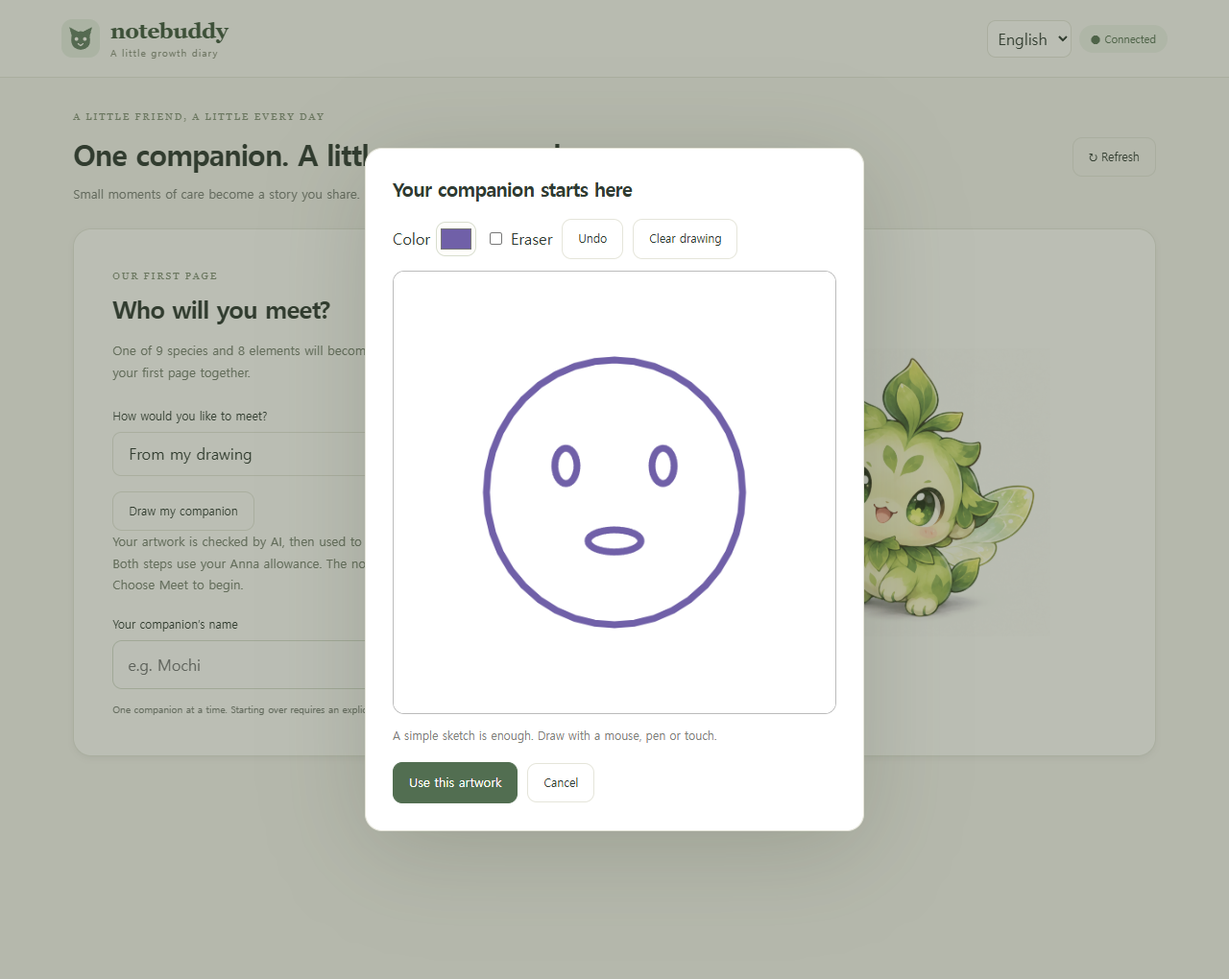
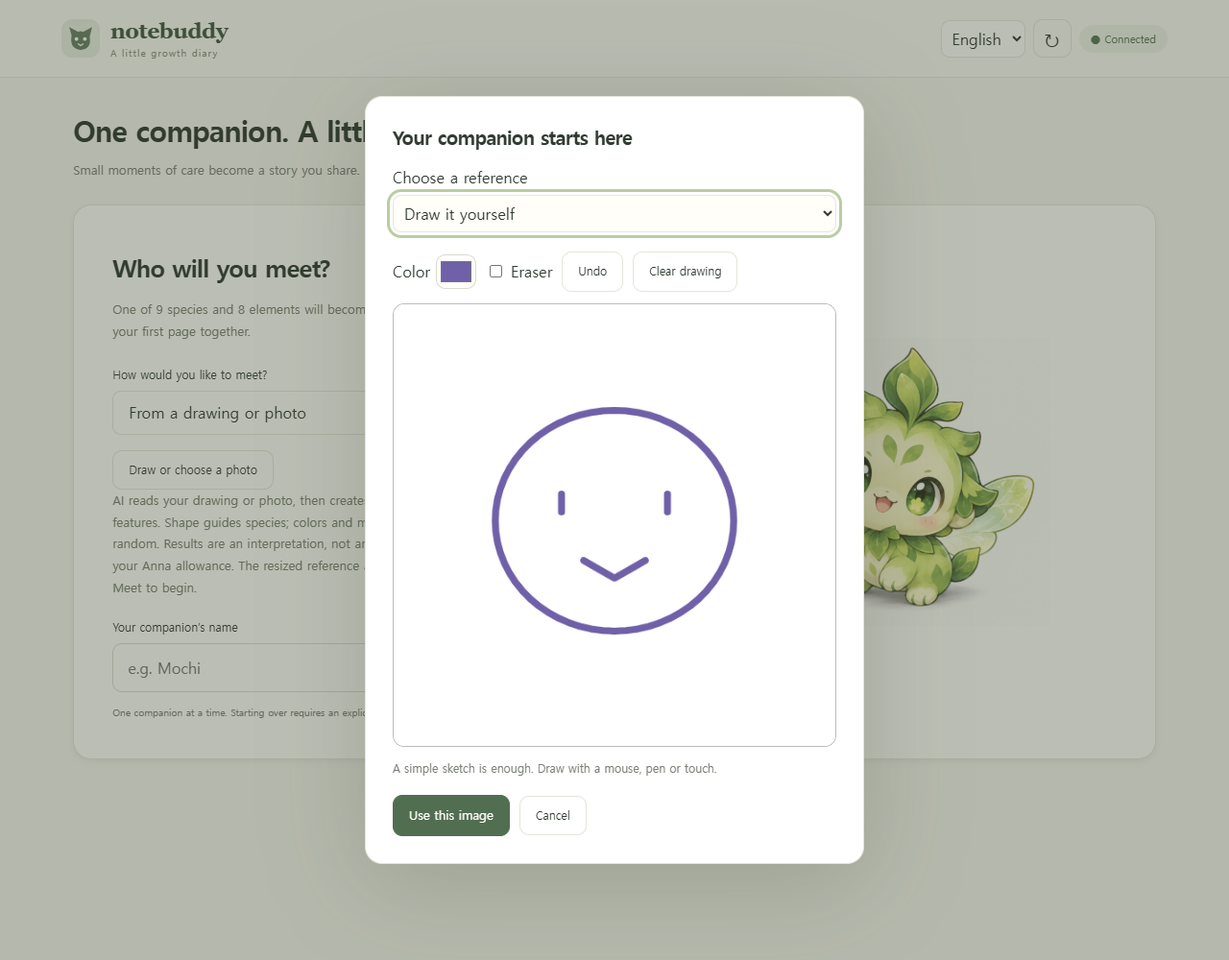
docs: refresh Anna listing and resubmit version 0.8.1

diff --git a/anna/scripts/store_fixture.py b/anna/scripts/store_fixture.py
@@ -1,0 +1,33 @@
+"""Produce disposable, real-engine views for store screenshots; no Anna account."""
+import json
+from pathlib import Path
+import subprocess
+import sys
+
+root = Path(__file__).resolve().parents[1]
+sys.path.insert(0, str(root / 'executas' / 'notebuddy'))
+from localization import localize
+
+
+def run(command, state=None):
+    payload = {'command': command, 'state': state, 'name': 'Mori'}
+    process = subprocess.run(
+        [sys.executable, '-B', '-X', 'utf8', str(root / 'executas/notebuddy/game_worker.py')],
+        input=json.dumps(payload), text=True, encoding='utf-8', capture_output=True, check=True)
+    value = json.loads(process.stdout)
+    if not value['result']['ok']:
+        raise RuntimeError(value['result'].get('code', 'Engine action failed'))
+    response = localize({**value['result'], **value['view'], 'request_id_prefix': 'nb2:0:'}, command)
+    return value['state'], response
+
+
+for attempt in range(40):
+    state, initial = run('start')
+    state, discovery = run('walk_begin', state)
+    if any(entry['discovered'] for entry in discovery['status']['dungeons']['entries']):
+        if discovery['status'].get('encounter'):
+            state, discovery = run('flee', state)
+        print(json.dumps({'initial': initial, 'discovery': discovery}, ensure_ascii=False))
+        break
+else:
+    raise RuntimeError('No discovery in disposable screenshot games; rerun explicitly')

diff --git a/anna/REVIEW_081.md b/anna/REVIEW_081.md
@@ -1,0 +1,37 @@
+# Notebuddy 0.8.1 — review guide
+
+Submitted candidate: **app 0.8.1**, immutable version **1370**, bundle **1271**, game tool **0.6.0 / version 746**. On **2026-10-14 KST**, the official CLI resubmitted review and a fresh server read confirmed **pending_review**, replacing the earlier **0.3.4** candidate. The current listing, privacy link and five screenshots were synchronized and verified. Approval and publication are pending.
+
+This guide is repository documentation. Anna's submission command has no separate reviewer-notes field; the updated app introduction and screenshots are the materials synchronized to the listing.
+
+## What the app does
+
+Notebuddy is a personal virtual companion inside Anna. Choose a ready-made surprise companion, draw a reference, or upload a photo. Care, conversation and small adventures build a continuing relationship. The app supports English and Korean and keeps each user's companion, artwork and recent conversation in that user's Anna storage.
+
+## Changes since the previous review candidate
+
+- Drawing and PNG/JPEG/WebP upload share one analysis → visual-description → illustrated-character flow. People, animals and objects can be references. An uncertain species interpretation requires confirmation. This creates an interpretation from visual features; it does not use direct `image.edit` or claim exact copying.
+- A saved fictional personality is inspired by the chosen name and appearance. Its voice and current traits are used in chat, care reactions and walk narration. Recorded game actions gradually influence curiosity, sociability, energy and caution. Chat text itself does not update trait scores. Evolution preserves the same personality.
+- Walks open a focused dialog and can offer XP to collect or decline, an encounter, or a continuing story. Six three-chapter story arcs use recorded care and earlier choices. The interface explains the actual experiences affecting a story or outcome. Choices can award bond and coins according to game rules; AI only supplies narration.
+- Walks can discover Hellgate, Ice Kingdom or Dream Forest. Only one discovery remains active until clear or expiry, with a 24-hour countdown from discovery. Dungeons have 3–6 rooms, automatic movement, a following camera, distinct enemies, route choices and sanctuaries. Each stage entry costs one walk charge; charges recover every five minutes up to five. Closing a paid pending choice preserves it. Cosmetic coins are recorded; the shop and wearable customization are not implemented.
+- Version 0.8.1 fixes dungeon identity: the actual current companion's pixel portrait is drawn, rather than a common species rig with sampled colors. Conversion and animation are local and require no AI. A single portrait is mirrored/bobbed for movement, without generated rear/side views. Late or failed image loads cannot reuse a previous companion.
+
+## Suggested review path
+
+1. Open the installed app and wait for **Connected**. Choose a name and **Surprise me**, or select the drawing/photo creation option. A random start uses a bundled portrait; personality creation still uses Anna AI. Uploads accept PNG/JPEG/WebP up to 12 MiB and 16 megapixels, with each side at least 32 pixels. Selecting or previewing a file does not call AI.
+2. Inspect the companion, personality details, care controls and growth album. Try care and chat. Care is committed before its optional AI reaction; failure to generate a reply does not reverse the action. Existing companions can explicitly choose **Meet your personality**.
+3. Choose **Walk**, then make any offered choice. Close and reopen a pending walk through **Continue walk**. Login does not automatically open a pending story. Outcomes and rewards come from the game tool, not AI prose.
+4. Dungeon discovery is probabilistic (25% per eligible walk), so a first walk does not guarantee one. When discovered, open the card to preview without spending a charge, then explicitly enter a stage. Try a route choice, pause, 3x playback and close/reopen. Subsequent stage entry requires another charge.
+5. Switch to Korean and inspect the privacy notice. Use reset/removal only with disposable test data: they require explicit confirmation. Refresh/reopen should preserve ordinary progress and should not automatically retry paid image/personality generation.
+
+## AI, storage and limits
+
+Chat, care reactions, walk narration, image analysis, image generation and personality initialization use the user's Anna AI allowance. Photo/drawing analysis and portrait generation are separate requests. Failed requests may still use allowance. A received but unsaved result can be retried without regeneration while retained in the same window. No external API key is required by this app.
+
+The game tool has sequenced, idempotent actions and authoritative rewards. Per-user storage contains game progress, bounded interaction memories/personality, up to 24 recent chat messages, reference images/descriptions, portraits and the current walk story. The privacy notice explains reset/removal and platform/provider retention separately. No user's chat is deliberately placed into another user's context.
+
+Live image-to-image accessory editing, a cosmetic shop and manual dungeon movement are outside this release. AI wording and visual similarity vary. The feature screenshots use isolated demonstration data, not real account records.
+
+## Validation
+
+Source `f964127` passed **76 JavaScript tests, 85 browser tests and strict validation** locally, and [Windows/Linux Anna CI](https://github.com/kdkrkwhr/notebook-pets/actions/runs/38495497327), including storage/protocol tests and standalone package smoke tests. Owner installation was verified with the running **0.6.0** tool, Connected UI, and exact hashes for the changed dungeon modules. See [release/deployment evidence](RELEASE_081.md) and [privacy notice](PRIVACY.md).

diff --git a/anna/README.md b/anna/README.md
@@ -6,17 +6,23 @@ Notebook Pets의 원본 Python 규칙을 사용하는 Anna 앱입니다. 기존 
 
 - 앱: `@kdkrkwhr/notebuddy` (ID 450)
 - [개발자 콘솔](https://anna.partners/developer?app=450)
-- 제출한 후보: 앱 **0.3.4** / 게임 도구 **0.1.15**. 실제 업로드·설치 결과는 [배포 검증 기록](INCREMENTAL_RELEASE.md)을 확인하세요.
-- 상태: **심사 대기 (pending_review)**. 2026-10-12 앱 **0.3.4** 소개글·개인정보 링크를 반영하고 심사를 다시 요청했습니다. 승인·공개 완료를 뜻하지 않습니다. [접수 및 검증 기록](RELEASE_034.md)
+- 제출한 후보: 앱 **0.8.1** / 게임 도구 **0.6.0**. [심사 안내](REVIEW_081.md)와 [배포 검증 기록](RELEASE_081.md)을 확인하세요.
+- 상태: **심사 대기 (pending_review)**. 2026-10-14 최신 소개글·개인정보 링크·스크린샷 5장을 반영하고 심사 대상을 **0.3.4 → 0.8.1**로 변경했습니다. 서버 재조회로 확인했으며 승인·공개 완료를 뜻하지 않습니다.
 - 다음 작업은 [HANDOFF.md](HANDOFF.md)에 기록했습니다.
 
-## 테스트 앱: 방 기반 픽셀 던전
+## 방 기반 픽셀 던전
 
-설치된 테스트 앱 **0.5.0 / 도구 0.3.0**에는 지옥문·얼음왕국·몽환의 숲 탐험이 있습니다. 산책마다 25% 확률로 발견한 던전만 표시하며 24시간 입장 카운트다운을 제공하고, 횟수 1개를 사용해 자동 이동·보스전을 관람하며, 당일 첫 클리어마다 10코인을 모읍니다. 최초 생성 및 새 그림 저장 시 원본에서 64×64 픽셀 캐릭터를 함께 변환·저장하며 추가 AI 요청은 없습니다. 기존 친구도 픽셀 준비 버튼을 사용할 수 있습니다. [구현 범위·규칙·제약](DUNGEONS.md)을 확인하세요. 공개 배포와 심사 제출 상태는 위 기록과 별개입니다.
+현재 **0.8.1 / 도구 0.6.0**에는 지옥문·얼음왕국·몽환의 숲 탐험이 있습니다. 발견 가능한 산책에서 25% 확률로 던전을 찾으며, 한 번에 하나만 발견한 시점부터 24시간 유지합니다. 3~6개 방을 자동으로 이동하고 갈림길·함정에서 선택하며 마지막 수호자와 싸웁니다. **스테이지 입장마다 산책 횟수 1개**를 사용하며, 횟수는 5분마다 하나씩 최대 5개까지 회복됩니다. 지역별 한국 날짜 기준 첫 클리어에 10코인을 얻습니다. 상점과 착용 꾸미기는 아직 제공하지 않습니다.
+
+현재 친구의 초상화를 64×64 픽셀로 변환하며 추가 AI 요청은 없습니다. 0.8.1에서는 종족 공통 그림 대신 실제 친구의 픽셀 외형을 표시합니다. 이동은 단일 그림의 좌우 반전·걷기 움직임으로 표현하며 별도 옆·뒷모습을 생성하지 않습니다. [구현 범위·규칙·제약](DUNGEONS.md)을 확인하세요.
+
+## 함께 쌓는 성격과 경험
+
+이름과 외형에서 초기 성격·말투·습관을 한 번 만들고 저장합니다. 실제 돌봄·훈련·산책·모험 선택이 호기심·친화성·활동성·신중함을 점진적으로 바꾸며, 대화·돌봄 반응·산책 이야기에 같은 성격과 경험을 전달합니다. 채팅 문장 자체가 성격 점수를 바꾸지는 않습니다. 랜덤 친구도 성격 생성에는 Anna AI 사용량이 들며, 기존 친구는 「친구의 성격 만나기」에서 설정할 수 있습니다.
 
 ## 산책 이야기
 
-평온한 산책 일부에서 두 선택지가 있는 AI 에피소드가 열립니다. 한 번의 요청으로 두 결말까지 만들며 선택 시 추가 AI 사용량·경험치·아이템은 없습니다. 진행 중인 이야기를 마친 뒤 다음 산책을 할 수 있습니다. 다시 접속하면 최근 이야기를 불러오고 AI를 자동 재요청하지 않습니다. AI 실패 시 기본 이야기로 이어가며, 초기화·삭제에 이야기 기록도 포함됩니다.
+산책에는 경험치 발견, 조우, 두 선택지가 있는 이야기가 있습니다. 여섯 종류의 3장 연속 이야기는 기록된 돌봄과 이전 선택을 반영하고, 결과에 영향을 준 실제 경험을 설명합니다. 선택 보상인 친밀도·코인은 게임 규칙으로 확정하며 AI는 장면과 반응을 표현합니다. 한 요청에서 선택지와 결말을 준비해 선택 시 AI를 추가 호출하지 않습니다. 창을 닫아도 미완료 선택은 「산책 이어가기」로 다시 열 수 있고, 접속만으로 창을 열거나 AI를 재요청하지 않습니다. AI 실패 시 기본 이야기로 이어가며 초기화·삭제에 이야기 기록도 포함됩니다.
 
 ## 직접 그린 친구
 

diff --git a/anna/README.en.md b/anna/README.en.md
@@ -2,17 +2,21 @@
 
 [한국어](README.md) · **English**
 
-One companion. A little care, every day. This private Anna app reuses the original Notebook Pets Python engine with an English-first interface and an optional Korean interface. The review candidate is app **0.3.4**, game tool **0.1.15**, with status **pending_review**. On 2026-10-12, its listing and privacy link were updated and review was requested again. See the [submission record](RELEASE_034.md); approval and publication are still pending.
+One companion. A little care, every day. This Anna app reuses the original Notebook Pets Python engine with an English-first interface and an optional Korean interface. The review candidate is app **0.8.1**, game tool **0.6.0**, with status **pending_review**. On 2026-10-14, the listing, privacy link and five screenshots were updated, and review was resubmitted from **0.3.4 to 0.8.1**. A fresh server read confirmed the candidate and status. See the [review guide](REVIEW_081.md) and [submission/deployment record](RELEASE_081.md); approval and publication are still pending.
 
-## Test app: connected dungeon rooms
+## Connected dungeon rooms
 
-Installed test app **0.5.0 / tool 0.3.0** includes Hellgate, Ice Kingdom and Dream Forest. Walks can discover one unfinished dungeon at a time, open for 24 hours. Entry costs one walk charge for a 3–6 room expedition. Meet different enemies, carry HP between rooms, recover at sanctuaries in longer layouts, and clear the final guardian for 10 coins per region per Korea calendar day. Movement follows the visible corridors and gates. Pause, 3x playback, skip and saved replay do not change rewards.
+App **0.8.1 / tool 0.6.0** includes Hellgate, Ice Kingdom and Dream Forest. Eligible walks have a 25% discovery chance, with one active dungeon lasting 24 hours from discovery. Each stage entry costs one walk charge; charges recover every five minutes up to five. Explore 3–6 rooms, make route and trap choices, carry HP between rooms, recover at sanctuaries in longer layouts, and clear the final guardian for 10 coins per region per Korea calendar day. Movement follows visible corridors and gates. Pause, 3x playback, skip and saved replay do not change rewards. A cosmetic shop and wearable customization are not available yet.
 
-Four-direction animated pixel avatars use species anatomy and portrait colors, without an additional AI call. They simplify the original appearance and do not reproduce every custom detail. Original portraits and stored 64×64 images are preserved. Existing single-boss expeditions remain replayable as one room; new entries use multiple rooms. See [rules](DUNGEONS.md) and the [verified deployment record](RELEASE_050.md). The public review candidate remains 0.3.4.
+Pixel conversion uses the current companion's portrait without an additional AI call. Version 0.8.1 draws that actual 64×64 appearance instead of a common species rig. Movement mirrors and bobs a single portrait; it does not generate side or rear views. See [rules](DUNGEONS.md) and the [verified deployment record](RELEASE_081.md).
+
+## Personality and shared experiences
+
+The chosen name and appearance inspire a saved fictional personality, voice and habits. Recorded care, training, walks and adventure choices gradually influence curiosity, sociability, energy and caution. Chat, care reactions and walk narration use the same personality and memories; chat text itself does not update trait scores. Personality creation uses Anna AI allowance even with a random starter. Existing companions can choose **Meet your personality**.
 
 ## Walk stories
 
-Some peaceful walks open a short AI episode with two choices. One request generates both endings; selection adds no AI usage, XP or items. Finish the current episode before another walk. Reopening restores the latest choice without generating again. AI failure uses a prepared story. Stories are part of reset/removal. New stories use Anna allowance.
+Walks can offer an XP discovery, a creature encounter or a story with two choices. Six three-chapter arcs respond to recorded care and earlier choices, with an explanation of the experiences affecting each outcome. The game rules determine bond and coin rewards; AI supplies narration. One request prepares choices and endings, so choosing does not call AI again. Closing a pending walk preserves it under **Continue walk**. Login does not automatically open it or regenerate narration. AI failure uses a prepared story. Stories are part of reset/removal, and new narration uses Anna allowance.
 
 ## Create from a drawing or photo
 

diff --git a/anna/store/README.md b/anna/store/README.md
@@ -1,13 +1,15 @@
-# Store screenshots
+# Store screenshots — 0.8.1
 
-Captured on 2026-10-09 from app 0.2.1 with the actual bundled UI and Python game engine, using an isolated local Anna development harness. The harness controls and logs are excluded. Screenshots contain no real account data, fabricated AI conversation, edited game values or generated UI mockups.
+Captured on **2026-10-14** from the unchanged 0.8.1 UI bundle, using isolated views produced by the actual Python game worker. No production account, Anna storage, paid AI request or fabricated AI conversation was used. `capture.json` records the version and demonstration companion. The screenshots are browser captures, not generated UI mockups.
 
-- `01-first-meeting.png`: actual initial screen, 1280 × 820.
-- `02-companion-and-care.png`: a newly created test companion, 1280 × 1520.
-- `03-care-and-album.png`: the same companion's care, daily quests and locked future stages, 1280 × 740.
+- `01-first-meeting.png`: first meeting and random/drawing/photo selection, 1280 × 1000.
+- `02-companion-and-care.png`: demonstration companion **Mori**, conversation area and care controls, 1280 × 1000.
+- `03-care-and-album.png`: daily quests, growth album and pixel preparation, 1280 × 850.
+- `04-draw-your-companion.png`: reference editor with a sketch drawn through its real pointer controls, 1280 × 1000.
+- `05-pixel-dungeon.png`: actual discovered-dungeon preview and the current companion's pixel silhouette, 1280 × 900. Entry is not pressed.
 
-The companion uses the revised `starters-v1` artwork. The 0.2.1 recapture verified image decoding and initial creation; the language/privacy checks below refer to the earlier capture, with current behavior also covered by the browser regression suite. No paid AI request was made. The English UI, Korean privacy dialog, closing behavior and a 360-pixel privacy-dialog layout were checked in a separate headless Edge browser. This is not a native-mobile certification or an APS persistence test.
+`scripts/store_fixture.py` creates disposable games and performs real walk commands until a dungeon is discovered. The game values are not manually edited. `scripts/capture_store.mjs` serves the shipped files in a network-isolated browser with read-only host responses; it does not certify Anna installation, AI quality or production persistence. The personality is not initialized and chat is empty, so no model-generated result is implied.
 
-The CLI legacy in-memory harness did not retain the sequenced game state across the start → feed calls in an earlier capture attempt: feed returned `request_expired`. That failed capture was discarded. Final screenshots show the successful initial creation only. Real APS save/persistence checks belong to the installed private Anna app and are recorded in `../HANDOFF.md`; do not use the legacy harness to certify them.
+Reproduce from `anna/` with `node scripts/capture_store.mjs` after preparing the existing assets and dependencies. The random demonstration companion may differ on a recapture. All five images were visually checked before metadata synchronization. `app.json` references the local files; Anna CLI uploads them through the official listing screenshot API.
 
-`../app.json` references these local files. Anna CLI uploads them through the official listing screenshot API. Recheck screenshots against the frozen release candidate before review submission. No cover asset has been invented; the cover remains optional and unset.
+The earlier screenshots were from 0.2.1 and have been replaced. Installed-runtime and persistence verification are recorded separately in [0.8.1 release notes](../RELEASE_081.md).

diff --git a/anna/HANDOFF.md b/anna/HANDOFF.md
@@ -1,3 +1,11 @@
+# 0.8.1 심사 재제출 완료 · 2026-10-14
+
+사용자 요청에 따라 기존 **0.3.4** 심사 대상을 **0.8.1 / ID 1370 / bundle 1271**로 변경했다. 도구는 **0.6.0 / Executa version 746**, working revision은 **44** 그대로다. `apps submit-review notebuddy --json` 실행 후 독립 서버 재조회에서 **pending_review / review_candidate_version=0.8.1**을 확인했다. 승인·공개 완료는 아니다.
+
+사진·그림 생성, 성격과 누적 경험, 여섯 연속 산책 이야기, 세 픽셀 던전, 실제 산책 횟수 규칙과 AI 사용량을 소개글에 반영했다. 최신 UI 스크린샷 **5장**, 개인정보 링크를 `apps sync-meta`로 갱신했고 서버 소개 필드 8종이 로컬 `app.json`과 일치함을 확인했다. 스크린샷은 실제 엔진의 격리 데이터로 생성·검수했으며 실계정 저장소나 유료 AI를 호출하지 않았다. strict 검사와 캡처의 브라우저 오류·읽기 전용 검증도 통과했다.
+
+[심사 안내](REVIEW_081.md)는 저장소 문서로 제공한다. CLI에는 별도 심사 메모 입력란이 없어 해당 문서를 폼에 업로드했다고 표현하지 않는다. [접수·검증 기록](RELEASE_081.md) 참고. 다음 작업은 심사 결과 확인과 요청되는 보완이며, 아래의 0.3.4 보존 기록은 당시 테스트 배포 이력이다. 이후 테스트 배포에서는 현재 **0.8.1 심사와 공유 소개글**을 보존한다.
+
 # 0.8.1 던전 캐릭터 외형 수정 배포 완료 · 2026-10-14
 
 앱 **0.8.1 / ID 1370 / revision 44 / bundle 1271**, 실행 도구 **0.6.0 / Executa version 746 / loaded=true / running=true**. 던전에서 캐릭터 색만 공통 종족 그림에 적용하던 코드를 없애고 현재 친구의 실제 픽셀 외형을 사용한다. 교체·새 그림·느린 로딩·닫기 때 이전 외형을 폐기하며, 현재 픽셀이 없으면 현재 초상화만 로컬 변환한다. 단일 그림의 좌우 반전·걷기 움직임이며 별도 뒷모습 생성이나 추가 AI 사용은 없다.

diff --git a/anna/RELEASE_081.md b/anna/RELEASE_081.md
@@ -1,6 +1,14 @@
 # 0.8.1 · Keep the companion's appearance in dungeons
 
-App **0.8.1**, unchanged game tool **0.6.0**. Owner test deployment verified on **2026-10-14 KST**. Review **0.3.4** and its shared listing are preserved.
+App **0.8.1**, unchanged game tool **0.6.0**. Owner test deployment verified on **2026-10-14 KST**. Initial deployment preserved review 0.3.4; the user's subsequent request updated the listing and resubmitted **0.8.1**, now **pending_review**.
+
+## Review resubmission · 2026-10-14 KST
+
+- Updated the public introduction for photo/drawing creation, personality and recorded experiences, six continuing walk arcs, three pixel dungeons and current AI usage. Charges recover every five minutes up to five, and each dungeon stage costs one charge. Random starters still use AI for personality creation.
+- Replaced four historical screenshots with five current UI captures, including the dungeon preview. `scripts/capture_store.mjs` uses disposable real Python-engine views with a read-only SDK fixture; no paid AI or production storage is called. All five captures were visually checked; provenance is recorded in `store/README.md` and `store/capture.json`.
+- `anna-app validate --strict` passed. `apps sync-meta --json` synchronized the listing, privacy URL and five CDN screenshots. Then `apps submit-review notebuddy --json` returned **pending_review / review_candidate_version 0.8.1**.
+- An independent server read confirmed candidate **1370 / 0.8.1**, ready bundle **1271**, unchanged working revision **44**, all eight listing text/URL fields matching `app.json`, and five Anna CDN screenshots. The existing tool **0.6.0 / version 746** and application bundle were not changed by this metadata submission.
+- The [English review guide](REVIEW_081.md) and both language READMEs describe the current candidate. The CLI provides no separate reviewer-notes field; that guide is repository documentation, not a separately uploaded form. This is a review request, not approval or public publication.
 
 ## Fix
 

diff --git a/README.md b/README.md
@@ -10,7 +10,7 @@
 
 Notebook Pets는 **게임 규칙은 Python이 처리하고, 캐릭터의 말투와 이야기는 AI 에이전트가 표현하는** 몬스터 육성 프로젝트입니다. **처음 만난 파트너 한 마리**에게 먹이를 주고, 놀아주고, 산책하며 함께 성장하는 다마고치형 게임입니다. Hermes를 비롯한 AI 에이전트에 공통 Python 도구 또는 MCP로 연결할 수 있으며, 독립 Discord 게이트웨이도 제공합니다.
 
-**[Anna 에디션](anna/README.md)**은 같은 게임 엔진에 영어·한국어 전용 화면, Anna 저장소, AI 대화와 그림 생성을 연결합니다. 현재 심사에 제출한 앱은 0.3.4이며, 로컬 0.3.5 후보에는 기존 그림 분석·생성 흐름을 이용하는 사진·이미지 업로드가 추가됩니다. [0.3.5 작업 기록](anna/RELEASE_035.md)을 확인하세요.
+**[Anna 에디션](anna/README.md)**은 같은 게임 엔진에 영어·한국어 화면, 사용자별 Anna 저장소, AI 대화와 그림 생성을 연결합니다. 그림·사진으로 친구 만들기, 경험에 따른 성격 변화, 연속 산책 이야기와 픽셀 던전을 지원합니다. 2026-10-14 앱 **0.8.1 / 도구 0.6.0**으로 심사를 다시 요청했으며 현재 **심사 대기** 상태입니다. [심사 안내](anna/REVIEW_081.md)와 [배포·검증 기록](anna/RELEASE_081.md)을 확인하세요.
 
 저장소 이름은 `notebook-pets`, 서비스 이름은 **노트버디(notebuddy)**입니다.
 

diff --git a/README.en.md b/README.en.md
@@ -10,7 +10,7 @@ Version **0.2.0**
 
 Notebook Pets is a virtual-pet project where **Python handles the game rules and an AI agent gives the character its voice and story**. Raise **the single partner you first meet** through feeding, play, and walks in a Tamagotchi-style game. Connect Hermes or another AI agent through shared Python tools or MCP, or use the standalone Discord gateway.
 
-The **[Anna edition](anna/README.md)** connects the same game engine to an English-first UI with a Korean option, Anna storage, AI chat, and image generation. The submitted review candidate is 0.3.4. Local candidate 0.3.5 adds photo/image uploads to the existing analysis and portrait flow; see the [0.3.5 work record](anna/RELEASE_035.md).
+The **[Anna edition](anna/README.en.md)** connects the same game engine to an English-first UI with a Korean option, per-user Anna storage, AI chat and image generation. Create a companion from a drawing or photo, shape its personality through shared experiences, follow continuing walk stories and discover pixel dungeons. App **0.8.1 / tool 0.6.0** was resubmitted on 2026-10-14 and is **pending review**. See the [review guide](anna/REVIEW_081.md) and [deployment/validation record](anna/RELEASE_081.md).
 
 The repository is named `notebook-pets`; the service name is **Notebuddy (노트버디)**.
 
